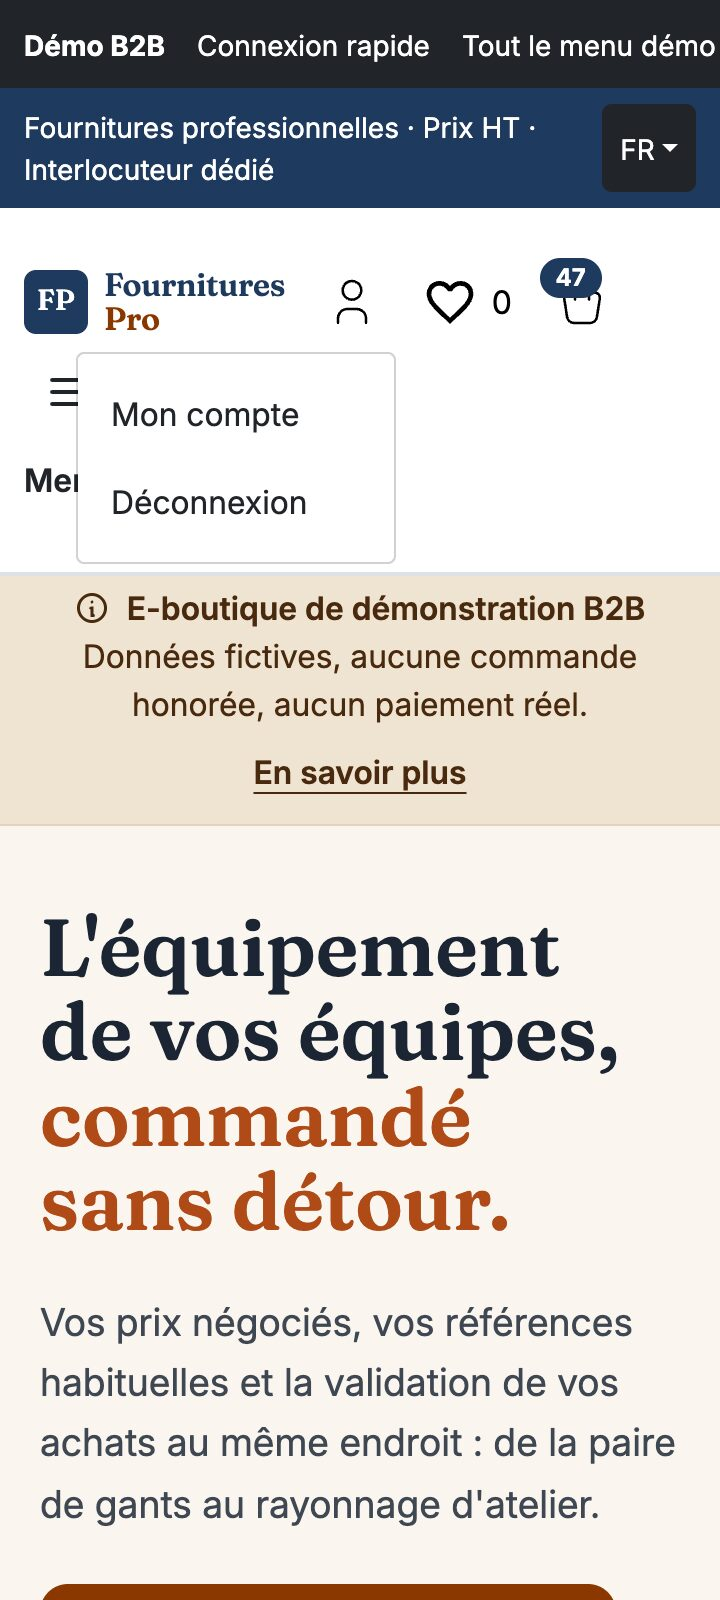
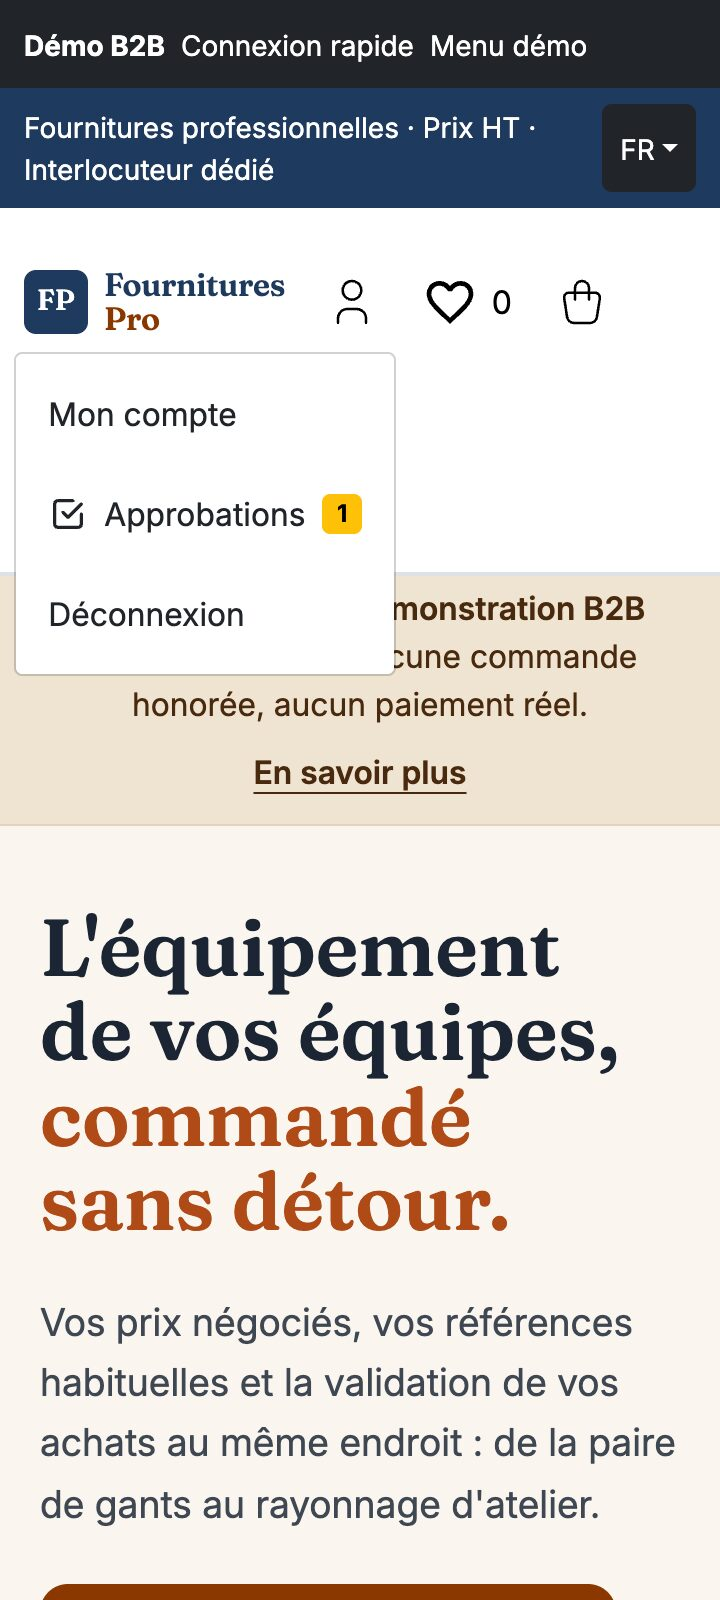
feat(header): US-192 menu catalogue ouvert dès 1200 px pour le visiteur et l'acheteur, barre de démo sans débordement
Panier réduit au montant sous xxl, liens plus serrés, prénom coupé par une ellipse, seuils
de repli ajustés (français 37,5 rem, anglais 30 rem), barre de démo qui rogne son panneau.
Captures : menu ouvert avec Approbations (Paul, 1280 px), connecté menu fermé, 360 px.

Claude-Session: https://claude.ai/code/session_01EUTS3K2bdSqoL7EFUFktDX

diff --git a/assets/shop/styles/_home.scss b/assets/shop/styles/_home.scss
@@ -695,7 +695,7 @@
 
 // Menu of the header row (aisles, quick order, quote). The column takes the space left by the logo, the account and the
 // cart (a signed-in buyer's account block is wide): a row of links when that space holds them (the longest, French, is
-// 640 px wide), a disclosure that opens over the page otherwise. A container query, so no screen width is guessed.
+// 589 px wide), a disclosure that opens over the page otherwise. Open from 1200 px, visitor and buyer, French and English (HomeStylesTest). A container query, so no screen width is guessed.
 .b2b-nav-col {
     container-type: inline-size;
 }
@@ -704,7 +704,7 @@
     display: none;
 }
 
-@container (min-width: 41rem) {
+@container (min-width: 37.5rem) {
     .b2b-nav-col .b2b-nav__list--row {
         display: flex;
     }
@@ -714,8 +714,8 @@
     }
 }
 
-// English labels are shorter (507 px): the same menu fits in a narrower column.
-@container (min-width: 33rem) {
+// English labels are shorter (466 px): the same menu fits in a narrower column.
+@container (min-width: 30rem) {
     :lang(en) .b2b-nav-col .b2b-nav__list--row {
         display: flex;
     }
@@ -730,7 +730,7 @@
         display: flex;
         flex-wrap: nowrap;
         align-items: center;
-        gap: 0 1rem;
+        gap: 0 .75rem;
         margin: 0;
         padding: 0;
         list-style: none;
@@ -743,7 +743,7 @@
         justify-content: center;
         min-width: 2.75rem;
         min-height: 2.75rem;
-        font-size: .9375rem;
+        font-size: .875rem;
         font-weight: 500;
         text-decoration: none;
     }
@@ -782,6 +782,14 @@
 
 // US-192: the caret of the greeting button is drawn on wide screens only (the phone keeps the icon button, without arrow).
 .b2b-account-menu {
+    // A long first name is cut with an ellipsis (the text stays whole for assistive technologies).
+    .dropdown-toggle > span:first-of-type {
+        max-width: 9rem;
+        overflow: hidden;
+        text-overflow: ellipsis;
+        white-space: nowrap;
+    }
+
     .dropdown-toggle::after {
         display: none;
     }
